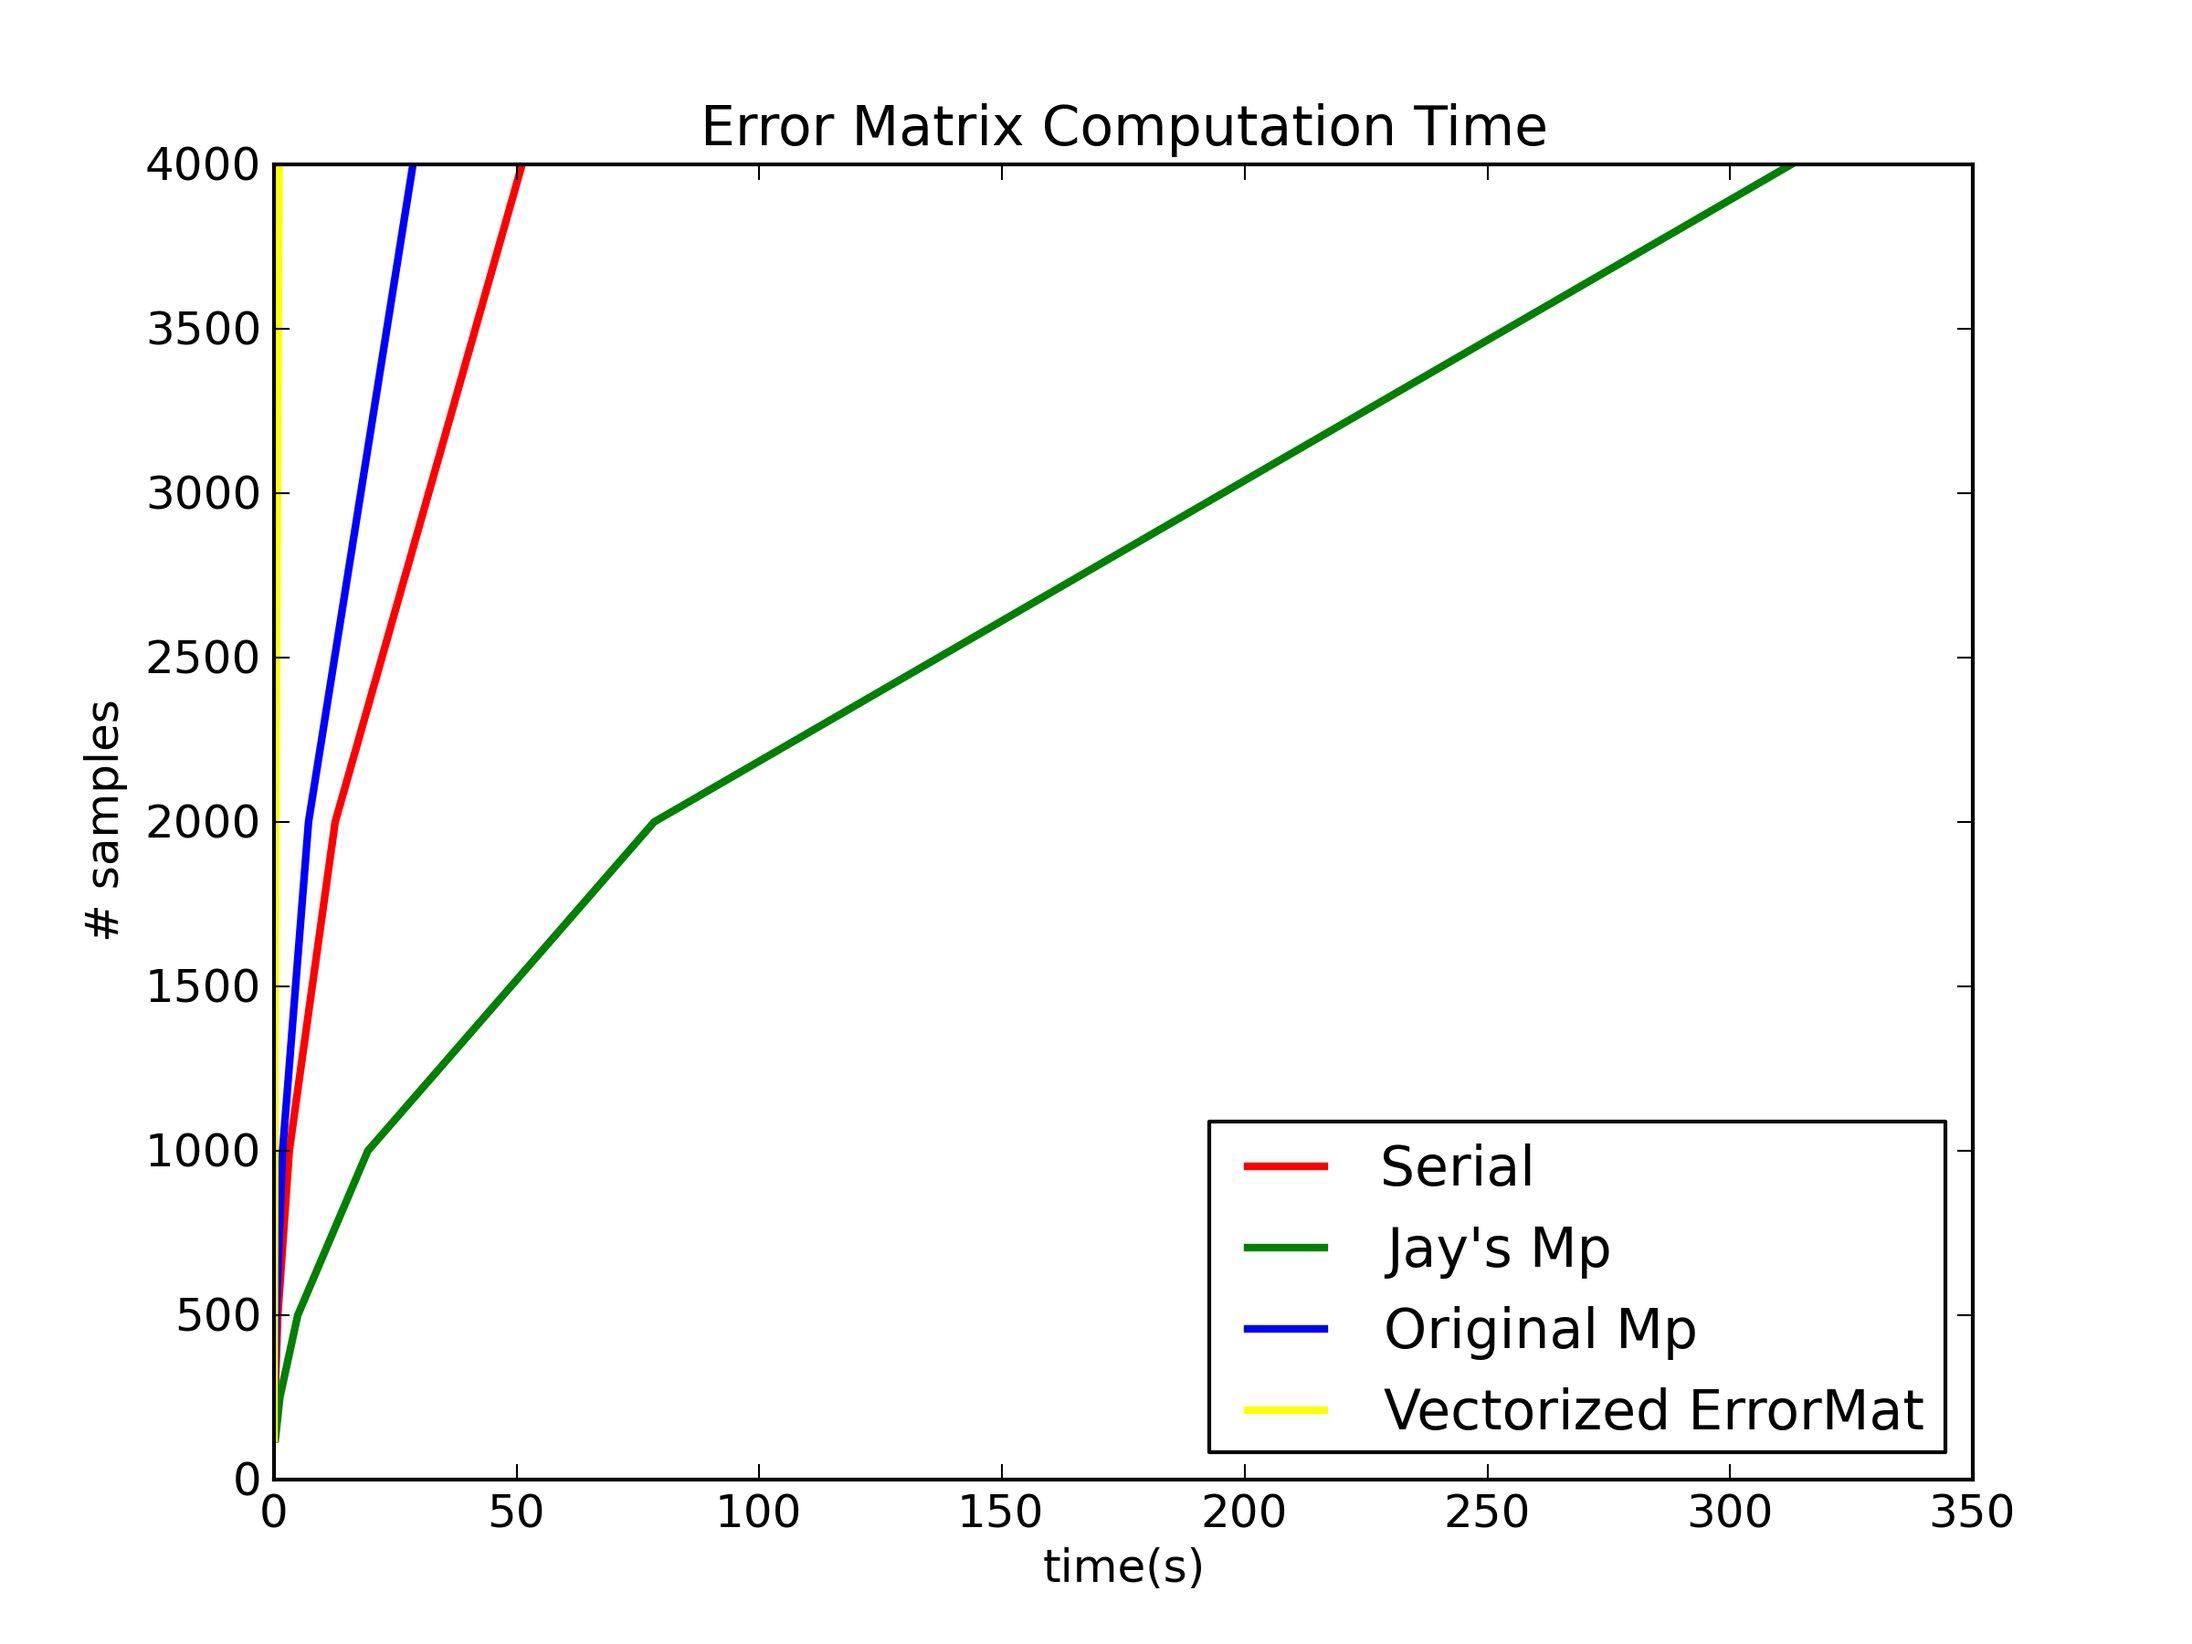
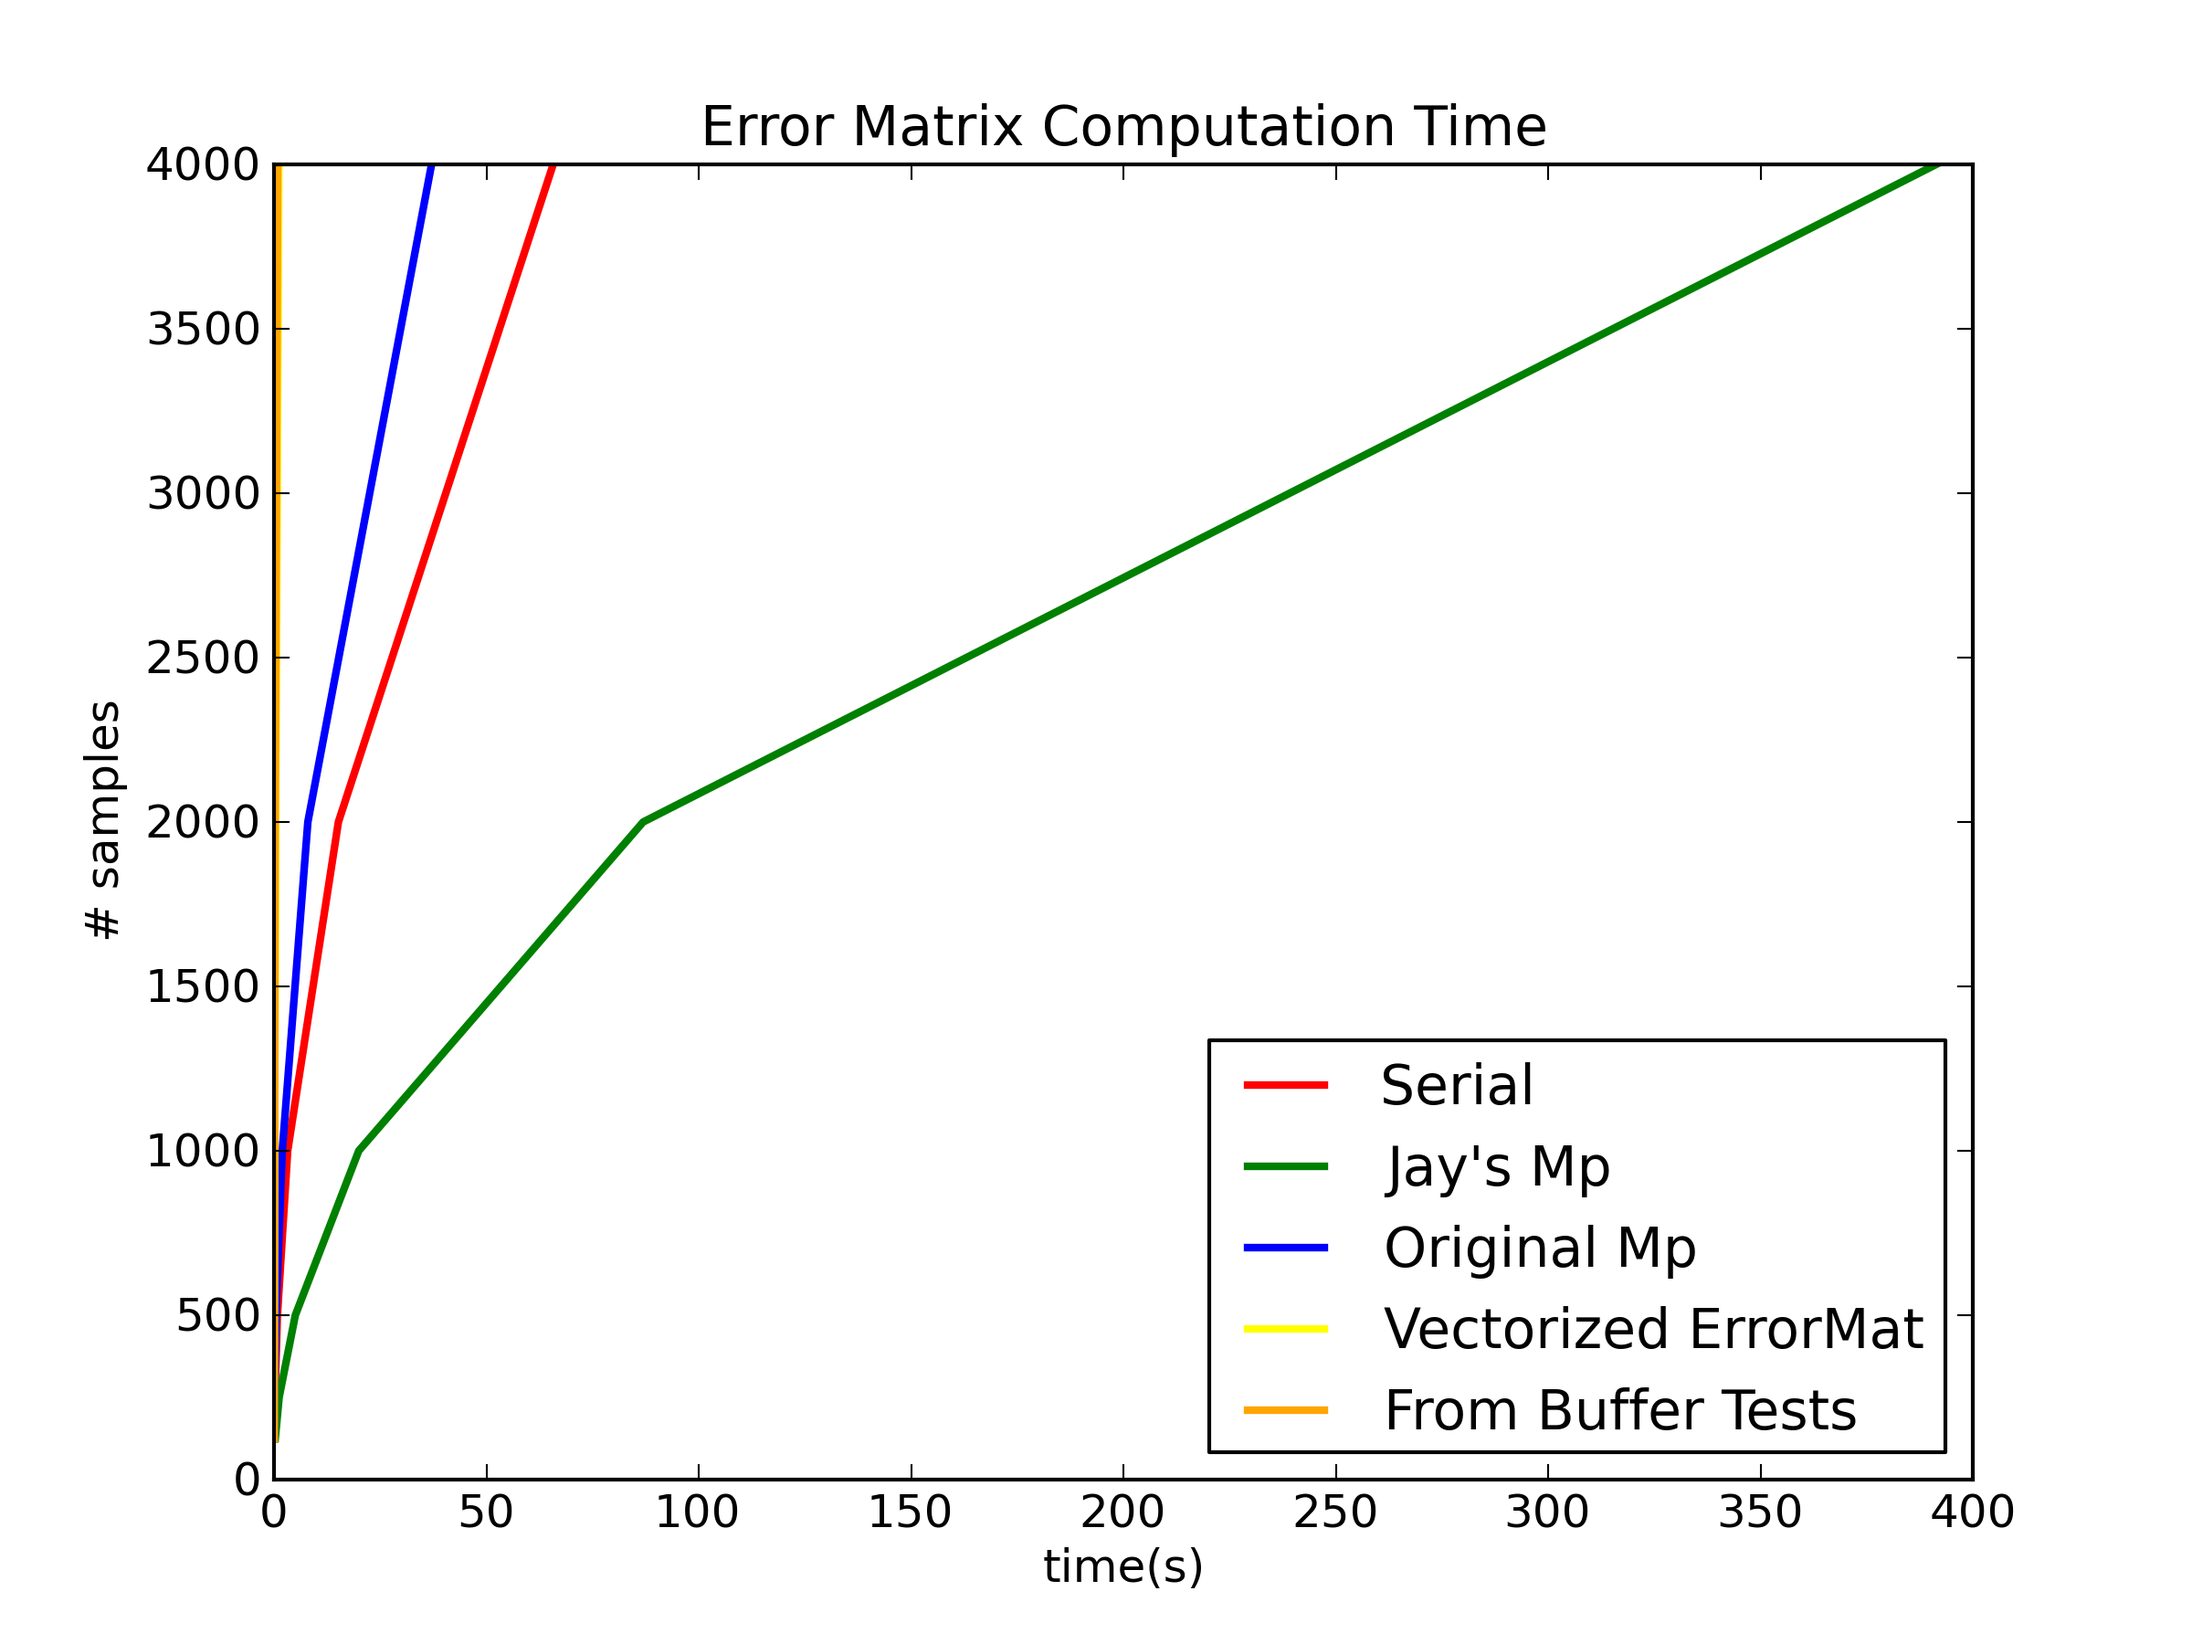
from buffer tests

diff --git a/speed_tests/fj_vectorized_time_sharedMem.py b/speed_tests/fj_vectorized_time_sharedMem.py
@@ -1,0 +1,171 @@
+'''Questions:
+
+When we read from a file, can we determine the dtype from the data coming in?
+In allocation, does the dtpye have to be float for everything? 
+When segmenting what are the pro/cons of using a generator?  
+How does a generator interact with a multiprocessing pool?
+
+The pickle module - it is the reason that the memory copy is necessary, but what is it?
+
+I think that we can avoid the in memory copy, but it makes everything a lot more complex in terms of book keeping...
+
+
+
+'''
+
+import numpy
+import timeit
+import time
+import multiprocessing
+import sharedmem_sample
+import ctypes
+import warnings
+
+#Suppress the divide by zero errors
+warnings.filterwarnings('ignore', category=RuntimeWarning)
+
+def allocate(values, classes):
+    '''This function allocates memory for the variance matrix, error matrix, 
+    and pivot matrix.  It also moves the variance matrix and error matrix from
+    numpy types to a ctypes, shared memory array.'''
+    
+    numClass = classes
+    numVal = len(values)
+    
+    varCtypes = multiprocessing.RawArray(ctypes.c_double, numVal*numVal)
+    varMat = numpy.frombuffer(varCtypes)
+    varMat.shape = (numVal,numVal)
+    
+    for x in range(0,len(values)):
+	varMat[x] = values[:]
+	varMat[x][0:x] = 0
+
+    errCtypes = multiprocessing.RawArray(ctypes.c_double, classes*numVal)
+    errorMat = numpy.frombuffer(errCtypes)
+    errorMat.shape = (classes, numVal)
+    
+    pivotShape = (classes, numVal)
+    pivotMat = numpy.ndarray(pivotShape, dtype=numpy.float)
+    
+    #Initialize the arrays as globals.
+    initArr(varMat, errorMat)
+    
+    return pivotMat, numClass
+
+def initArr(varMat_, errorMat_):
+    '''Initialize the ctypes arrays as global variables for multiprocessing'''
+    global sharedVar
+    sharedVar = varMat_
+    
+    global sharedErr
+    sharedErr = errorMat_
+
+def fj(sharedVar,i, values, start):
+    '''This function facilitates passing multiple rows to each process and
+    then performing multiple vector calculations along individual rows.'''
+    arr = sharedVar
+    arr[i] = numpy.apply_along_axis(calcVar, 1, arr[i], len(values))
+    arr[i][numpy.isnan(arr[i])] = 0
+
+def calcVar(arrRow, lenValues):
+    '''This function calculates the diameter matrix.  It is called by fj.
+    The return line performs the calculation.  All other lines prepare an
+    order vector, prepended with zeros when necesary which stores n, the number 
+    of elements summed for each index.'''
+    
+    lenN = (arrRow != 0).sum()
+    n = numpy.arange(1, lenN+1)
+    
+    if lenN != lenValues:
+        n.resize(arrRow.shape[0]) 	
+	n[arrRow.shape[0]-lenN:] =  n[:lenN-arrRow.shape[0]] 
+	n[0:arrRow.shape[0]-lenN] = 0 
+
+    return ((numpy.cumsum(numpy.square(arrRow))) - \
+            ((numpy.cumsum(arrRow)*numpy.cumsum(arrRow)) / (n)))
+
+    
+#def segment(errRowLength, step):
+    #'''This function returns a list of tuples which store the start and stop
+    #for each errorRow.  Start and stop are necesary to allow multiprocessing.'''
+
+    ## 0 1 2 3 4 5 6 7 8 9
+    
+    #segments = []
+    #print errRowLength
+    #for x in range(0, errRowLength, step):
+	#print x
+	#tple = (x, x+step)
+	#segments.append(tple)
+    #return segments
+
+def fisher_jenks(values, classes=5, sort=True):
+    
+    if sort:
+	#pass
+	values.sort()
+	
+    numVal = len(values)
+
+    #Allocate all necessary memory
+    pivotMat, k = allocate(values, classes)
+    
+    #Calculate the number of cores over which to multiprocess
+    cores = multiprocessing.cpu_count()
+    cores *= 2
+    step = numVal // cores
+
+    t0 = time.time()
+    #Calculate the variance matrix
+    jobs = []
+    for i in range(0,len(values),step):
+	p = multiprocessing.Process(target=fj,args=(sharedVar,slice(i, i+step),values, i))
+	jobs.append(p) 
+	'''ToDO - This is redundant: either iterate over the list, or remove it, but this does nothing.'''
+	p.start()
+	p.join()
+    del jobs[:], p
+    t1 = time.time()
+    
+    #Calculate the error matrix
+    sharedErr[0] = sharedVar[0]
+    
+    #Error Matrix Calculation
+    row = 1
+    for x in sharedErr[1:]:
+	errRow = x[row:]
+	for y in range(0,len(errRow)):
+	    errRow[y] = numpy.amin(sharedErr[row-1][row-1:y+row] + sharedVar[:,y+row][row:y+row+1])
+	row += 1
+
+    t2 = time.time()
+
+    #Calculate Pivots
+    pivots = []
+    j = k - 1
+    col = numVal - 1
+    
+    while j > 0:
+	ev = sharedErr[j, col]
+	pivot_search = True
+	right = col
+	
+	while pivot_search:
+	    left_error = sharedErr[j-1, right-1]
+	    right_error = sharedVar[right, col]
+	    if left_error + right_error == ev:
+		pivots.insert(0, right)
+		col = right -1
+		pivot_search = False
+	    right -= 1
+	j -=1
+    t3 = time.time()
+	
+    print "Pivots: ", pivots
+    return (t1-t0, t2-t1, t3-t2, t3-t0)
+
+if __name__ == '__main__':
+    values = numpy.arange(10000)
+    fisher_jenks(values)
+    
+    

diff --git a/speed_tests/time_test.py b/speed_tests/time_test.py
@@ -3,6 +3,7 @@ import fj_serial_time
 from mapclassify_time import PFisher_Jenks_MP
 import fj_new_mp_time #Non-vectorized errorMat calculation
 import fj_new_mp_time_errMatTests #Vectorized errorMat calculation
+import fj_vectorized_time_sharedMem
 import numpy
 import matplotlib.pyplot as plt
 
@@ -14,21 +15,25 @@ for k in classes:
     fj_pfisher_mp_diam = []
     fj_new_mp_diam = []
     fj_new_mp_errMatTests_diam = []
+    fj_new_mp_fromBuff_diam = []
 
     fj_serial_time_err = []
     fj_pfisher_mp_err = []
     fj_new_mp_err = []
     fj_new_mp_errMatTests_err = []
-    
+    fj_new_mp_fromBuff_err = []
+
     fj_serial_time_piv = []
     fj_pfisher_mp_piv = []
     fj_new_mp_piv = []
     fj_new_mp_errMatTests_piv = []
+    fj_new_mp_fromBuff_piv = []
     
     fj_serial_time_total = []
     fj_pfisher_mp_total = []
     fj_new_mp_total = []
     fj_new_mp_errMatTests_total = []
+    fj_new_mp_fromBuff_total = []
 
     for t in samples:
         values = [randint(0,5000) for y in range(0,t)]
@@ -87,11 +92,25 @@ for k in classes:
         fj_new_mp_errMatTests_total.append(times[3])
         print 
     
+        times = fj_vectorized_time_sharedMem.fisher_jenks(values, k)
+        print "FJ vectorized, single core, error matrix, numpy from buffer, using %i values and %i classes." %(t, k) 
+        print '=============================================================='
+        print "Diameter Matrix Calculation: %f" %times[0]
+        fj_new_mp_fromBuff_diam.append(times[0])
+        print "Error matrix Calculation: %f" %times[1]
+        fj_new_mp_fromBuff_err.append(times[1])
+        print "Find the Pivots: %f" %times[2]
+        fj_new_mp_fromBuff_piv.append(times[2])
+        print "Total Time: %f" %times[3]
+        fj_new_mp_fromBuff_total.append(times[3])
+        print 
+        
     #Plot the diameter matrix generation.
     plt.plot(fj_serial_time_diam ,samples, color='red', label='Serial', linewidth=2.0)
     plt.plot(fj_new_mp_diam, samples, c='green', label="Jay's Mp", linewidth=2.0)
     plt.plot(fj_pfisher_mp_diam, samples, c='blue', label='Original Mp', linewidth=2.0)
     plt.plot(fj_new_mp_errMatTests_diam, samples, c='yellow', label='Vectorized ErrorMat', linewidth=2.0)
+    plt.plot(fj_new_mp_fromBuff_diam, samples, c='orange', label='From Buffer Tests', linewidth=2.0)
     plt.legend(loc='lower right')
     plt.xlabel('time(s)')
     plt.ylabel('# samples')
@@ -107,6 +126,7 @@ for k in classes:
     plt.plot(fj_new_mp_err, samples, c='green', label="Jay's Mp", linewidth=2.0)
     plt.plot(fj_pfisher_mp_err, samples, c='blue', label='Original Mp', linewidth=2.0)
     plt.plot(fj_new_mp_errMatTests_err, samples, c='yellow', label='Vectorized ErrorMat', linewidth=2.0)
+    plt.plot(fj_new_mp_fromBuff_err, samples, c='orange', label='From Buffer Tests', linewidth=2.0)
     plt.legend(loc='lower right')
     plt.xlabel('time(s)')
     plt.ylabel('# samples')
@@ -121,6 +141,7 @@ for k in classes:
     plt.plot(fj_new_mp_piv, samples, c='green', label="Jay's Mp", linewidth=2.0)
     plt.plot(fj_pfisher_mp_piv, samples, c='blue', label='Original Mp', linewidth=2.0)
     plt.plot(fj_new_mp_errMatTests_piv, samples, c='yellow', label='Vectorized ErrorMat', linewidth=2.0)
+    plt.plot(fj_new_mp_fromBuff_piv, samples, c='orange', label='From Buffer Tests', linewidth=2.0)
     plt.legend(loc='lower right')
     plt.xlabel('time(s)')
     plt.ylabel('# samples')
@@ -135,6 +156,7 @@ for k in classes:
     plt.plot(fj_new_mp_total, samples, c='green', label="Jay's Mp", linewidth=2.0)
     plt.plot(fj_pfisher_mp_total, samples, c='blue', label='Original Mp', linewidth=2.0)
     plt.plot(fj_new_mp_errMatTests_total, samples, c='yellow', label='Vectorized ErrorMat', linewidth=2.0)
+    plt.plot(fj_new_mp_fromBuff_total, samples, c='orange', label='From Buffer Tests', linewidth=2.0)
     plt.legend(loc='lower right')
     plt.xlabel('time(s)')
     plt.ylabel('# samples')

diff --git a/speed_tests/time_test2.py b/speed_tests/time_test2.py
@@ -1,0 +1,63 @@
+import fj_vectorized_time_sharedMem
+import numpy
+import matplotlib.pyplot as plt
+from random import randint
+
+samples = [125,250,500,1000,2000,4000,8000]
+classes = [ 5 ]
+
+for k in classes:
+    fj_new_mp_fromBuff_diam = []
+    fj_new_mp_fromBuff_err = []
+    fj_new_mp_fromBuff_piv = []
+    fj_new_mp_fromBuff_total = []
+    
+    for t in samples:
+        values = [randint(0,5000) for y in range(0,t)]
+        
+        times = fj_vectorized_time_sharedMem.fisher_jenks(values, k)
+        print "FJ vectorized, sharedmem, no duplication - using %i values and %i classes." %(t, k) 
+        print '=============================================================='
+        print "Diameter Matrix Calculation: %f" %times[0]
+        fj_new_mp_fromBuff_diam.append(times[0])
+        print "Error matrix Calculation: %f" %times[1]
+        fj_new_mp_fromBuff_err.append(times[1])
+        print "Find the Pivots: %f" %times[2]
+        fj_new_mp_fromBuff_piv.append(times[2])
+        print "Total Time: %f" %times[3]
+        fj_new_mp_fromBuff_total.append(times[3])
+        print 
+        
+    #Plot the diameter matrix generation.
+    plt.plot(fj_new_mp_fromBuff_diam, samples, c='orange', label='From Buffer Tests', linewidth=2.0)
+    plt.legend(loc='lower right')
+    plt.xlabel('time(s)')
+    plt.ylabel('# samples')
+    plt.title('Diameter Matrix Computation Time')
+    #plt.show()
+    name = 'DiameterMatrix_highSample.png'
+    plt.savefig(name, dpi=300)
+    plt.clf() #Clear this plot.
+    
+    
+    #Plot the error matrix generation
+    plt.plot(fj_new_mp_fromBuff_err, samples, c='orange', label='From Buffer Tests', linewidth=2.0)
+    plt.legend(loc='lower right')
+    plt.xlabel('time(s)')
+    plt.ylabel('# samples')
+    plt.title('Error Matrix Computation Time')
+    #plt.show()
+    name = 'ErrorMatrix_highSample.png'
+    plt.savefig(name, dpi=300) 
+    plt.clf() #Clear this plot.
+    
+    #Plot total time
+    plt.plot(fj_new_mp_fromBuff_total, samples, c='orange', label='From Buffer Tests', linewidth=2.0)
+    plt.legend(loc='lower right')
+    plt.xlabel('time(s)')
+    plt.ylabel('# samples')
+    plt.title('Total Computation Time')
+    #plt.show()
+    name = 'TotalTime_highSample.png'
+    plt.savefig(name, dpi=300)  
+    plt.clf() #Clear this plot. 

diff --git a/memory_duplication_tests/memdup.py b/memory_duplication_tests/memdup.py
@@ -1,0 +1,63 @@
+import numpy
+import multiprocessing
+import ctypes
+import random
+import time
+
+def allocate(values, classes):
+    numVal = len(values)
+    
+    varShape = (numVal,numVal)
+    print 'Initializing RawArray in:'
+    time.sleep(1)
+    print '3'
+    time.sleep(1)
+    print '2'
+    time.sleep(1)
+    print '1'
+    varMat = multiprocessing.RawArray(ctypes.c_double, numVal*numVal)
+    print 'RawArray created'
+    time.sleep(5)
+    
+    print 'Getting view....maybe?'
+    x = numpy.frombuffer(varMat)
+    time.sleep(5)
+    
+    print 'Altering shape of the view without a copy...maybe'
+    x.shape = varShape
+    print x
+    time.sleep(5)
+    print 'X initialized as a global'
+    initX(x) #Initialize x as a global
+    
+    step = numVal // 4 #num cores on my macbook
+    jobs = []
+    for i in range(0, numVal, step):
+        p = multiprocessing.Process(target=f, args=(sharedX, slice(i, i+step)))
+        jobs.append(p)
+        p.start()
+        p.join()
+
+    
+    print sharedX
+        
+    
+def f(sharedVar, i):
+    sharedVar[i] += (1000*random.random())
+    
+def initX(x_):
+    global sharedX
+    sharedX = x_
+
+values = [int(1000*random.random()) for i in xrange(10000)]
+print 'Values generated in a list.  Dtype is int'
+time.sleep(5)
+allocate(values, 5)
+'''
+Here we create a non-locking array inmemory that is accessible via numpy.
+
+x = multiprocessing.RawArray(ctypes.c_double, numpy.arange(20))
+print numpy.frombuffer(x)
+'''
+
+
